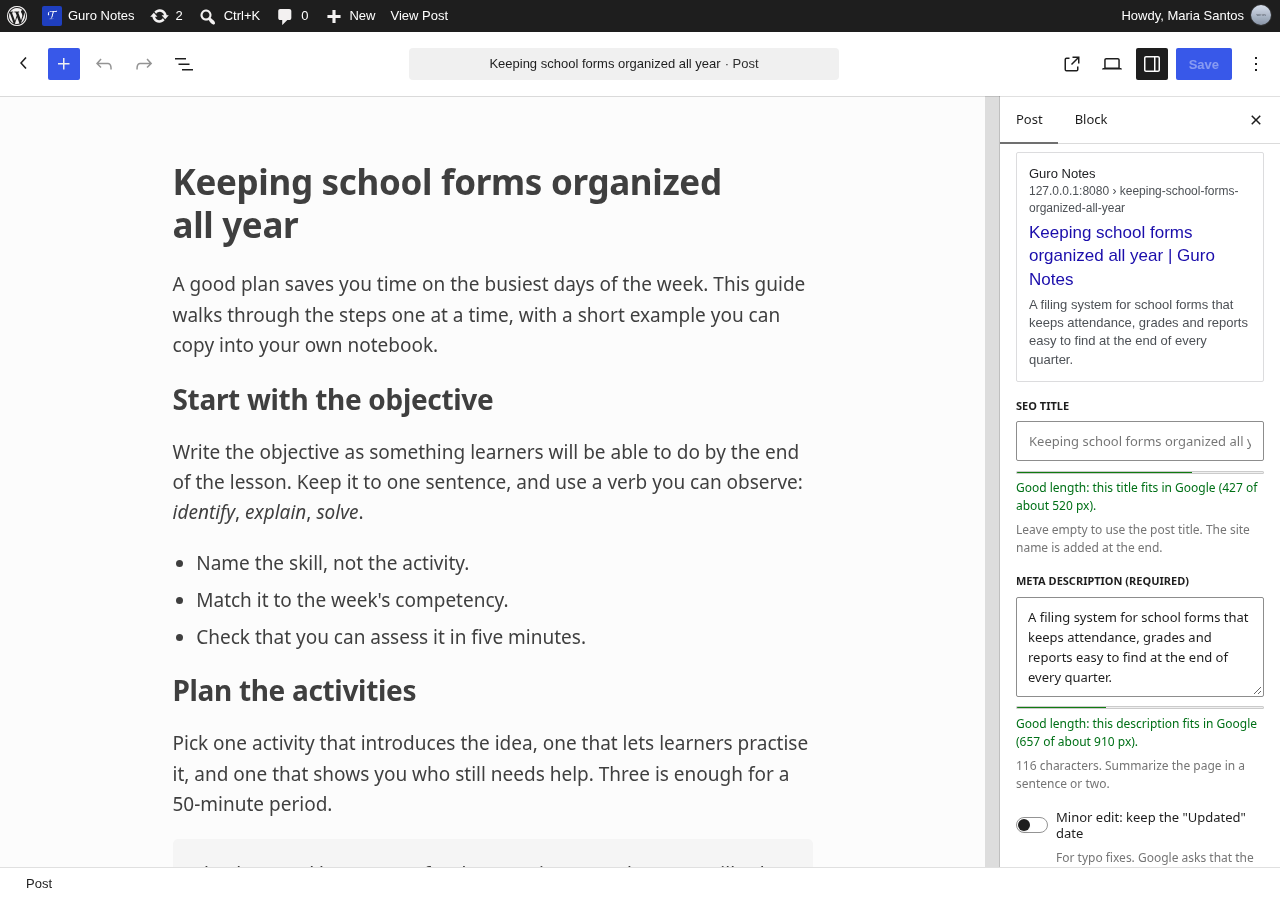
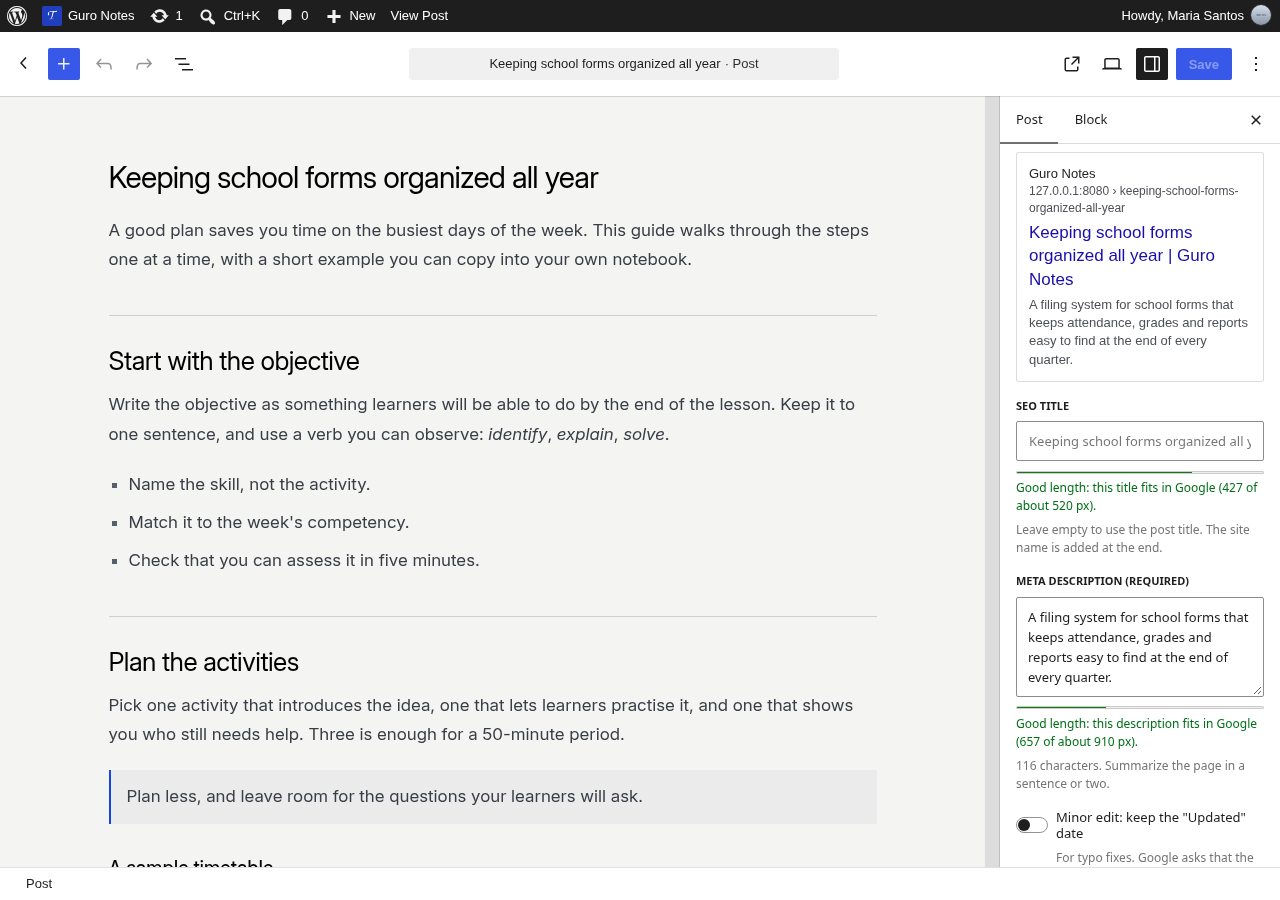
Tala Blog 2.0.0: NASH Reviewer's look
Version 2.0.0 with its changelog, upgrade notice and Inter's OFL credit,
a new description in style.css, readme.txt and README.md, and a new
screenshot (the home page, light, 1200x900). The readmes' plugin
screenshots are taken again in the new look (the editor and the phone
pages show Inter and the new colours).

What 2.0.0 changes: the "drafting paper" look (ink on warm paper, one
cobalt accent, hairlines, square cards), Inter self-hosted and preloaded,
a Light/Dark switch named "Dark theme" with aria-pressed (ruling R7, not
the spec's two labels), full-width bands on a 60rem rail with diamond
nodes, a cobalt footer with the menu as columns and the site title as an
outlined wordmark, ruled list rows without thumbnails, an article title
band with the reading time and "On this page", empty Call to action and
Footer note parts filled per site in the Site Editor, forms, PDF viewer
and print following the switch. The colour and typography presets are
gone; the upgrade notice says sites that picked one lose it.

The theme names no site or design source: comments that said "NASH" now
say "the design system" (ruling R12). The inlined CSS leaves out
theme.css's comments and indentation (68 KB -> 48 KB printed, 8 KB
gzipped); a PHPUnit test checks it, and fails without the change.

Lighthouse, mobile article, no ads (lighthouse 12.8.2 CLI):
- through a gzip proxy, as nginx serves it: Performance 96,
  Accessibility 100, Best Practices 100, SEO 100 (FCP 1.5 s, LCP 2.6 s,
[…]

Changed region(s): [[0.0625, 0.1867, 0.6875, 0.5911], [0.0938, 0.6222, 0.6562, 0.9022]]

diff --git a/tala-blog/assets/theme.css b/tala-blog/assets/theme.css
@@ -74,7 +74,7 @@
 	color-scheme: light dark;
 	scrollbar-gutter: stable; /* room for the scrollbar on short pages too, so pages don't jump sideways */
 
-	/* The page frame (NASH Reviewer's): one rail every band shares, its inner padding, the diamond
+	/* The page frame (the design system's): one rail every band shares, its inner padding, the diamond
 	   nodes, the graph paper's pitch and lines, and the header's 44px controls and their gap. */
 	--tala-rail: 60rem;
 	--tala-rail-pad: clamp(1rem, 0.25rem + 3vw, 2.5rem);
@@ -85,7 +85,7 @@
 	--tala-header-gap: 0.5rem;
 	--tala-ease-out: cubic-bezier(0.23, 1, 0.32, 1);
 
-	/* Errors in forms (Gravity Forms' "Required" marks and messages): NASH's destructive red, 5:1 on
+	/* Errors in forms (Gravity Forms' "Required" marks and messages): the design system's destructive red, 5:1 on
 	   the light surface and 6:1 on the dark one. Gravity Forms' own red (#c02b0a) is 2.8:1 on the
 	   dark surface. */
 	--tala-danger: #c53b2b;
@@ -248,7 +248,7 @@ a {
 	}
 }
 
-/* Buttons, as NASH's: the accent fill with a 2px lip of the deep accent and a faint cobalt shadow
+/* Buttons, as the design system's: the accent fill with a 2px lip of the deep accent and a faint cobalt shadow
    (theme.json gives the fill). Outline buttons, and the header's icon buttons, are a hairline box
    on the surface with a faint grey lip. The lip goes on hover; a press sinks the button by 1px. */
 :where(.wp-element-button, .wp-block-button__link) {
@@ -336,7 +336,7 @@ a {
 	scroll-margin-block-start: var(--wp--preset--spacing--40);
 }
 
-/* Form fields, as NASH's controls: the surface in a 1px box, 4px corners, the text's ink. The
+/* Form fields, as the design system's controls: the surface in a 1px box, 4px corners, the text's ink. The
    surface is barely lighter than the paper, so the edge is the field's outline: muted, which keeps
    at least 3:1 against the page and the field (WCAG 1.4.11; the border colour is for cards and
    buttons). Gravity Forms' fields look the same (assets/gravity-forms-*.css). */
@@ -390,8 +390,8 @@ footer.wp-block-template-part,
 	flex-grow: 1;
 }
 
-/* The page frame, as NASH Reviewer's: every section is a full-width band ruled underneath. Inside
-   it, a centred rail (60rem, narrower than NASH's 70rem so side-rail ads keep room beside it) with
+/* The page frame, as the design system's: every section is a full-width band ruled underneath. Inside
+   it, a centred rail (60rem, narrower than the design system's 70rem so side-rail ads keep room beside it) with
    hairline side rules and a 7px diamond node where they cross the band's top rule. Bands follow
    each other with no gap, so the rails run unbroken from the header to the footer. Wide windows
    get a fainter outer pair of rules. In the editor a rail Group has no nodes: the editor draws a
@@ -462,7 +462,7 @@ footer.wp-block-template-part,
 	background-size: var(--tala-grid-pitch) var(--tala-grid-pitch);
 }
 
-/* The text column, centred in the rail: NASH's measure-72, 72 of Inter's "ch" (0.628em, written in
+/* The text column, centred in the rail: the design system's measure-72, 72 of Inter's "ch" (0.628em, written in
    em so lines don't re-wrap when Inter replaces its fallback), about 768px of 17px text. theme.json's
    content size (48rem) gives the editor the same column. */
 .tala-measure {
@@ -505,7 +505,7 @@ footer.wp-block-template-part,
 	min-block-size: 24px;
 }
 
-/* Header menu: a Navigation block with the site's menu, or its pages until there is one, as NASH's
+/* Header menu: a Navigation block with the site's menu, or its pages until there is one, as the design system's
    ghost links (15px, medium weight, heading ink, 44px tall, a wash on hover). Below 52rem it folds
    behind the menu button (WordPress folds it below 600px; the header's row needs more room) and
    opens into the menu overlay (parts/navigation-overlay.html). */
@@ -612,7 +612,7 @@ footer.wp-block-template-part,
 	transition: none;
 }
 
-/* The menu overlay, as NASH's side sheet: it covers the window and dims the page; the sheet is the
+/* The menu overlay, as the design system's side sheet: it covers the window and dims the page; the sheet is the
    full width on phones and 24rem wide from 40rem, at the right edge, in the page's colours. */
 .tala-header .wp-block-navigation__responsive-container.is-menu-open {
 	background-color: rgb(0 0 0 / 50%);
@@ -648,7 +648,7 @@ footer.wp-block-template-part,
 }
 
 /* Its top bar is the header's row: the brand exactly over the header's, the close button (a ghost
-   icon button) at the end of the row, as on NASH's sheet. */
+   icon button) at the end of the row, as on the design system's sheet. */
 .tala-overlay .wp-block-navigation-overlay-close {
 	border: 1px solid transparent;
 	background-color: transparent;
@@ -729,7 +729,7 @@ html:not(.tala-js) body:not(.editor-styles-wrapper) .tala-theme-switch,
 	}
 }
 
-/* The footer slab, as NASH Reviewer's: full-bleed cobalt with white text and hairlines at white
+/* The footer slab, as the design system's: full-bleed cobalt with white text and hairlines at white
    24%, the rail running on through it. A grid of cells (the brand cell, then the menu's columns),
    the bottom bar, and the hatched band with the wordmark. Its own padding sets every space in it. */
 .tala-slab {
@@ -974,12 +974,12 @@ html:not(.tala-js) body:not(.editor-styles-wrapper) .tala-theme-switch,
 	content: "© ";
 }
 
-/* The wordmark: the site title in giant outlined capitals on NASH's -45deg hatching, sized from
+/* The wordmark: the site title in giant outlined capitals on the design system's -45deg hatching, sized from
    its length (--tala-chars, set by tala_blog_wordmark()) so it spans the band whatever the title;
-   the band clips the bottoms of the letters. Inter's display cut at every size (as NASH's SVG
+   the band clips the bottoms of the letters. Inter's display cut at every size (as the design system's SVG
    wordmark, drawn at 330px), so a title's width doesn't change with the window: its capitals
    average about 0.6em, and 1.6em per character spans 92-98% of the band for most titles; a short
-   one stops at a third of the band's width (NASH's 330 in 1000), so it isn't cut off. One of
+   one stops at a third of the band's width (the design system's 330 in 1000), so it isn't cut off. One of
    unusually wide letters overflows both ends equally. The fill paints over the stroke's inner
    half, which hides the variable font's overlapping contours. */
 .tala-wordmark-band {
@@ -1005,8 +1005,8 @@ html:not(.tala-js) body:not(.editor-styles-wrapper) .tala-theme-switch,
 	user-select: none;
 }
 
-/* An article's or page's title band (its header), as NASH's: the breadcrumbs, the first category as
-   eyebrow, the title in display type (NASH's measure-24 of display type), the excerpt as lead
+/* An article's or page's title band (its header), as the design system's: the breadcrumbs, the first category as
+   eyebrow, the title in display type (the design system's measure-24 of display type), the excerpt as lead
    (measure-60, in the text's ink), then the byline over the dates and reading time. The parts sit
    1.25rem apart (.tala-intro). */
 
@@ -1090,7 +1090,7 @@ html:not(.tala-js) body:not(.editor-styles-wrapper) .tala-theme-switch,
 	}
 }
 
-/* The text band: NASH's padding, then the text column, its parts 2.5rem apart (the text, its
+/* The text band: the design system's padding, then the text column, its parts 2.5rem apart (the text, its
    topics, "Read next", the author box, the comments). The column is a container, so the author box
    lays out by its own width. */
 .tala-band > .tala-rail--text {
@@ -1109,7 +1109,7 @@ html:not(.tala-js) body:not(.editor-styles-wrapper) .tala-theme-switch,
 	margin-block-start: 2.5rem;
 }
 
-/* "On this page": the article's sections, as NASH's contents on a phone, at every width: a box on
+/* "On this page": the article's sections, as the design system's contents on a phone, at every width: a box on
    the surface, closed to one line (list icon, "On this page", the number of sections, a chevron),
    that opens into the numbered sections, each with its subsections, below a hairline. */
 .tala-contents {
@@ -1222,7 +1222,7 @@ html:not(.tala-js) body:not(.editor-styles-wrapper) .tala-theme-switch,
 	}
 }
 
-/* The article's text, as NASH's: 17px ink on relaxed leading, 1.25em between blocks, regular-weight
+/* The article's text, as the design system's: 17px ink on relaxed leading, 1.25em between blocks, regular-weight
    headings (sections under a hairline rule), cobalt underlined links, square bullets, quotes on the
    wash with a 2px cobalt rule, tables in a bordered box of their own. Pages get the same. The rules
    for headings reach the text's own blocks and the Groups in it, not headings inside other blocks'
@@ -1513,7 +1513,7 @@ html:not(.tala-js) body:not(.editor-styles-wrapper) .tala-theme-switch,
 }
 
 /* Quotes, in articles and comments, look like the Quote block (theme.json): on the wash, square,
-   with a 2px cobalt rule at the start, as NASH's, the width of the text. A pull quote keeps its own
+   with a 2px cobalt rule at the start, as the design system's, the width of the text. A pull quote keeps its own
    look. */
 :where(.wp-block-post-content, .wp-block-comment-content) :where(blockquote:not(.wp-block-pullquote > blockquote)) {
 	margin-inline: 0;
@@ -1575,7 +1575,7 @@ html:not(.tala-js) body:not(.editor-styles-wrapper) .tala-theme-switch,
 	margin-inline: auto;
 }
 
-/* After the text, as NASH's: each part under a hairline rule, 1.5rem above its first line. */
+/* After the text, as the design system's: each part under a hairline rule, 1.5rem above its first line. */
 
 /* "Topics": the article's categories and tags as chips (tags marked "#", for the eye only). */
 .tala-terms,
@@ -1707,7 +1707,7 @@ html:not(.tala-js) body:not(.editor-styles-wrapper) .tala-theme-switch,
 	}
 }
 
-/* The author box, as NASH's "About the author": a square card on the surface, the round photo
+/* The author box, as the design system's "About the author": a square card on the surface, the round photo
    (80px, on a hairline ring) beside the name from 34rem of column, above it on a phone. */
 .tala-author {
 	display: flex;
@@ -1905,7 +1905,7 @@ html:not(.tala-js) body:not(.editor-styles-wrapper) .tala-theme-switch,
 	font-size: var(--wp--preset--font-size--small);
 }
 
-/* The 404 page: NASH's status panel on the graph paper, centred: a large italic "404" in display
+/* The 404 page: the design system's status panel on the graph paper, centred: a large italic "404" in display
    type, the heading, the explanation, a search field and the button home. */
 .tala-status {
 	display: flex;
@@ -1942,8 +1942,8 @@ html:not(.tala-js) body:not(.editor-styles-wrapper) .tala-theme-switch,
 }
 
 /* The closing call to action (the "Closing call to action" pattern, for the Call to action part): on
-   the graph-paper band, a square surface card with a hairline border and NASH's flat cobalt offset
-   shadow, the one raised element on the page. Eyebrow, display heading (NASH's measure-18 of display
+   the graph-paper band, a square surface card with a hairline border and the design system's flat cobalt offset
+   shadow, the one raised element on the page. Eyebrow, display heading (the design system's measure-18 of display
    type), lead (measure-44, in the text's ink), one button and a meta line, centred, 1.25rem apart. */
 .tala-cta {
 	display: flex;
@@ -1984,7 +1984,7 @@ html:not(.tala-js) body:not(.editor-styles-wrapper) .tala-theme-switch,
 	margin-block-start: 1.25rem;
 }
 
-/* Display type is narrower: NASH measures it in its own "ch" of 0.594em. */
+/* Display type is narrower: the design system measures it in its own "ch" of 0.594em. */
 .tala-intro > .tala-display {
 	max-inline-size: calc(20 * 0.594em);
 }
@@ -2097,7 +2097,7 @@ html:not(.tala-js) body:not(.editor-styles-wrapper) .tala-theme-switch,
 	}
 }
 
-/* Article lists, as NASH's: ruled rows without pictures, the rules running from side rule to side
+/* Article lists, as the design system's: ruled rows without pictures, the rules running from side rule to side
    rule (the rail adds no padding; each row pads itself). From 44rem of list the date and first
    category sit in a 9rem column beside the title and summary; narrower, above them. */
 

diff --git a/tala-blog/style.css b/tala-blog/style.css
@@ -2,8 +2,8 @@
 Theme Name: Tala Blog
 Author: Edventure
 Author URI: https://edventure.com.ph
-Description: A minimal, fast blog theme for long reads on phones: near-black text on a near-white page, with the same quiet look inverted in dark mode (it follows the reader's device). A header with the site logo and a menu that opens full screen on phones, system fonts only, labelled published and updated dates, and under every article a "Keep reading" section (articles from the same categories, then the older and newer articles as cards) and an author box with biography. Colour presets (Sepia, Blue, Green) and serif typography presets, all with system fonts. Pairs with the Tala SEO plugin for breadcrumbs and structured data.
-Version: 1.13.0
+Description: A fast blog theme for long reads on phones, in a "drafting paper" look: dark ink on warm paper, one cobalt accent, Inter (self-hosted), and every section a full-width band on a centred rail with hairline rules. A Light/Dark switch in the header (it follows the reader's device until they choose), a cobalt footer with columns from the site's menu and the site title as an outlined wordmark, articles listed as ruled rows, and an article page with a title band (dates and reading time), "On this page" contents, topic chips, "Read next" and an author box. Empty Call to action and Footer note parts to fill per site in the Site Editor. Pairs with the Tala SEO plugin for breadcrumbs and structured data.
+Version: 2.0.0
 Requires at least: 7.0
 Tested up to: 7.1
 Requires PHP: 8.5

diff --git a/tala-blog/functions.php b/tala-blog/functions.php
@@ -198,7 +198,7 @@ add_filter( 'render_block_core/table', 'tala_blog_table_region' );
 /**
  * A Table block scrolls sideways in its own box when it is wider than the text column (theme.css),
  * so the page never does. Keyboard users scroll it too: the box is a region they can focus, named
- * by the table's caption, or "Table", as NASH's tables are.
+ * by the table's caption, or "Table", as the design system's tables are.
  *
  * @param string $html Rendered Table.
  * @return string
@@ -646,14 +646,16 @@ add_filter( 'styles_inline_size_limit', static fn(): int => 60000 );
 add_action( 'wp_enqueue_scripts', 'tala_blog_styles', 20 );
 
 /**
- * Inlines the theme CSS after the global styles: about 38 KB, under 10 KB once the page is
- * compressed, cheaper than another request.
+ * Inlines the theme CSS after the global styles, cheaper than another request. The comments that
+ * explain it in assets/theme.css (a quarter of the file) and the indentation stay out of the page:
+ * about 48 KB is printed, under 10 KB once the page is compressed. The editor reads the file as it is.
  */
 function tala_blog_styles(): void {
-	$css = file_get_contents( get_theme_file_path( 'assets/theme.css' ) ); // phpcs:ignore WordPress.WP.AlternativeFunctions.file_get_contents_file_get_contents -- local file.
+	$css = (string) file_get_contents( get_theme_file_path( 'assets/theme.css' ) ); // phpcs:ignore WordPress.WP.AlternativeFunctions.file_get_contents_file_get_contents -- local file.
+	$css = (string) preg_replace( array( '#/\*.*?\*/#s', '/\n\s+/' ), array( '', "\n" ), $css );
 	wp_register_style( 'tala-blog', false, array(), wp_get_theme()->get( 'Version' ) );
 	wp_enqueue_style( 'tala-blog' );
-	wp_add_inline_style( 'tala-blog', (string) $css );
+	wp_add_inline_style( 'tala-blog', trim( $css ) );
 }
 
 add_action( 'wp_head', 'tala_blog_theme_switch_script', 0 );
@@ -1218,7 +1220,7 @@ function tala_blog_reserved_ids() {
 }
 
 /**
- * The table of contents, as NASH's: a disclosure that starts closed at every width, its summary
+ * The table of contents, as the design system's: a disclosure that starts closed at every width, its summary
  * "On this page · 4 sections" between a list icon and a chevron, which opens into a navigation
  * landmark named "On this page": the sections numbered 01, 02… (numbers the eye needs, hidden from
  * screen readers, so each link is named by its heading's words alone), each with its subsections.

diff --git a/tests/phpunit/tala-blog/test-theme.php b/tests/phpunit/tala-blog/test-theme.php
@@ -1700,6 +1700,31 @@ HTML;
 	}
 
 	/**
+	 * The theme's CSS is inlined into every page without the comments that explain it in
+	 * assets/theme.css, nor their indentation: the rules all arrive, the prose doesn't.
+	 */
+	public function test_inline_css_without_comments(): void {
+		$saved                = $GLOBALS['wp_styles'] ?? null;
+		$GLOBALS['wp_styles'] = new WP_Styles();
+		try {
+			tala_blog_styles();
+			$data = wp_styles()->get_data( 'tala-blog', 'after' );
+			$css  = implode( "\n", is_array( $data ) ? $data : array() );
+		} finally {
+			$GLOBALS['wp_styles'] = $saved;
+		}
+		$file = (string) file_get_contents( get_theme_file_path( 'assets/theme.css' ) ); // phpcs:ignore WordPress.WP.AlternativeFunctions.file_get_contents_file_get_contents -- local file.
+		$this->assertStringContainsString( '/*', $file, 'The file keeps its comments' );
+		$this->assertStringNotContainsString( '/*', $css );
+		$this->assertStringNotContainsString( '*/', $css );
+		$this->assertDoesNotMatchRegularExpression( '/\n[ \t]/', $css, 'No indentation' );
+		$this->assertLessThan( 0.8 * strlen( $file ), strlen( $css ) );
+		$this->assertStringContainsString( 'box-shadow: 6px 6px 0 color-mix(in srgb, var(--wp--preset--color--accent) 10%, transparent);', $css, 'Rules arrive as written' );
+		$rules = (string) preg_replace( '#/\*.*?\*/#s', '', $file );
+		$this->assertSame( substr_count( $rules, '{' ), substr_count( $css, '{' ), 'Every rule arrives' );
+	}
+
+	/**
 	 * The browser's theme colour and the dark-mode colours follow a chosen colour preset, also when
 	 * the person who chose it can't save unfiltered HTML: WordPress then keeps only the palette, and
 	 * the dark colours come from the preset's file. The theme ships no presets, but a child theme

diff --git a/README.md b/README.md
@@ -4,7 +4,7 @@ A minimal, fast blog setup for WordPress with the block editor (Gutenberg). No p
 
 | Folder | What it is |
 |---|---|
-| `tala-blog/` | Block theme. Minimalist: near-black text on a near-white page, the same inverted in automatic dark mode, a header with the site logo and a menu that opens full screen on phones, system fonts (no downloads), labelled Published/Updated dates, author box with bio under every article, breadcrumbs, "Filed under" categories and tags, article lists with thumbnails and numbered pages, dated comments, print styles. Semantic HTML: the article has its own header and footer, the links to the previous and next articles are a named navigation landmark, and each comment is an article. Three colour presets (Sepia, Blue, Green, each with its own dark mode) and two serif typography presets in the Site Editor, all with system fonts. Translation-ready and accessible (WCAG 2.2 AA checks pass in both colour schemes, with every colour preset). |
+| `tala-blog/` | Block theme in a "drafting paper" look: dark ink on warm paper, one cobalt accent, Inter (self-hosted, preloaded), every section a full-width band on a centred rail with hairline rules, and a Light/Dark switch in the header (it follows the device until the reader chooses). A header with the site logo, the menu (a side sheet on narrow screens) and search; a cobalt footer with the site's menu as columns, a Footer note part and the site title as an outlined wordmark; article lists as ruled rows without thumbnails; articles with a title band (breadcrumbs, dates, reading time), "On this page" contents, topic chips, "Read next" and an author box; an empty Call to action part filled per site in the Site Editor; dated comments; print styles. Semantic HTML with named landmarks; Gravity Forms and PDF Embedder follow the switch. Translation-ready and accessible (WCAG 2.2 AA checks pass in light and dark). |
 | `tala-seo/` | SEO plugin. Titles, meta descriptions, canonicals, robots rules, Open Graph, JSON-LD, sitemap and robots.txt tuning, redirects for moved pages and categories, and a publish check. |
 | `tala-ads/` | Ads plugin. AdSense Auto ads, Google Tag Manager and Google's consent and ad blocking recovery messages (with Google's error protection code), each loaded once and set up with IDs; Google search in place of WordPress's search; and an optional Innity box after articles with its height reserved. |
 | `tala-guard/` | Comment spam plugin. Cloudflare Turnstile in the comment form, confirmed with Cloudflare's Siteverify on the server before WordPress saves a comment. |
@@ -127,8 +127,8 @@ dev/serve.sh                  # http://127.0.0.1:8080 (admin login: ~/.local/sta
 | `npm run lint:theme` | `bin/validate-theme.mjs`: `theme.json` and `block.json` against WordPress's schemas for the "Requires at least" version, pattern headers, block markup in templates, parts and patterns, and no hard-coded text in templates and parts |
 | `npm run lint:readme` | `bin/validate-readme.mjs`: `tala-seo/readme.txt`, `tala-ads/readme.txt` and `tala-guard/readme.txt` by the rules of [WordPress.org's readme validator](https://wordpress.org/plugins/developers/readme-validator/) (its errors, warnings and notes, ported from the plugin directory's parser), plus a match with the plugin header, "Tested up to" the current WordPress, upgrade notices within 300 characters, a changelog entry for the release, and an image in `.wordpress-org/` (`.wordpress-org/<plugin>/` for Tala Ads and Tala Guard) for each screenshot caption. Contributors, tag usage and the WordPress release are looked up on WordPress.org. The one note left on purpose: no donate link, as the plugins take no donations. |
 | `npm run lint` | the four above, plus `composer lint` |
-| `composer test` | PHPUnit integration tests (`tests/phpunit/`) on WordPress's own test framework: Tala SEO's head tags, structured data (videos, events, courses, FAQ and how-to included), sitemap, redirects, publish check, admin forms, import and share images, Tala Ads' settings and scripts (each loaded once, none on error pages, the error protection code's checks, Google search's redirect and results page, the Innity box once with its height reserved), and Tala Blog's block filters, patterns, template parts and style variations (colour contrast in light and dark mode, colour and typography presets as the Site Editor lists them) |
-| `npm run test:e2e` | browser tests (`tests/e2e/`, Playwright) on the local site: every kind of page, the phone menu frame by frame, layout shifts, the logo, axe in light and dark mode on phone and desktop and with each colour preset, the article's header, footer and navigation and the comments as articles, the block editor's validation of the theme, classic content (aligned images, captions, galleries, embeds, tables, quotes, long words, password forms), and Tala SEO's FAQ, How-to, Event and Course blocks and video dates in the editor and on the page |
+| `composer test` | PHPUnit integration tests (`tests/phpunit/`) on WordPress's own test framework: Tala SEO's head tags, structured data (videos, events, courses, FAQ and how-to included), sitemap, redirects, publish check, admin forms, import and share images, Tala Ads' settings and scripts (each loaded once, none on error pages, the error protection code's checks, Google search's redirect and results page, the Innity box once with its height reserved), and Tala Blog's block filters, patterns, template parts, footer columns and wordmark, reading time, Inter's font faces and preloads, and colours (contrast in light and dark mode) |
+| `npm run test:e2e` | browser tests (`tests/e2e/`, Playwright) on the local site: every kind of page, the phone menu frame by frame, layout shifts, the logo, axe in light and dark mode on phone and desktop, the Light/Dark switch (applied before paint, kept across pages, hidden without JavaScript), the article's header, footer and navigation and the comments as articles, the block editor's validation of the theme, classic content (aligned images, captions, galleries, embeds, tables, quotes, long words, password forms), and Tala SEO's FAQ, How-to, Event and Course blocks and video dates in the editor and on the page |
 
 A pre-commit hook (husky and lint-staged, set up by `npm ci`) runs the linters on the staged files of each commit.
 
@@ -152,15 +152,15 @@ The one deliberate exception is Plugin Check's `plugin_updater_detected`. It fla
 
 `AGENTS.md` describes the workflow: WordPress agent skills first, then the checks, then tests on the local site. The skills come from [WordPress/agent-skills](https://github.com/WordPress/agent-skills) (GPL-2.0-or-later). They are installed in `.agents/skills/`, recorded in `skills-lock.json`, and Claude Code reads them through `.claude/skills/`. Update them with `npx skills update`.
 
-### Test results (October 2026: WordPress 7.1, PHP 8.5.12)
+### Test results (November 2026: WordPress 7.1, PHP 8.5.12)
 
-- `composer test`: 73 PHPUnit tests pass. `npm run test:e2e`: 79 browser tests pass, axe included.
+- `composer test`: 231 PHPUnit tests pass (one, the network-only admin test, runs in the multisite pass). `npm run test:e2e`: 157 browser tests pass, axe included.
 - Every page type renders without PHP notices, and every theme template passes the block editor's validator.
 - The publish check holds in the editor, over REST, in Quick Edit and WP-CLI saves, and for scheduling.
 - The WP-CLI commands `audit` and `import` (including `--dry-run`) work; Yoast titles built from `%%variables%%` are skipped.
-- Lighthouse on a mobile article page: Accessibility 100, Best Practices 100, SEO 100.
+- Lighthouse on a mobile article page (Tala Blog 2.0.0, no ads, gzip as on the servers): Performance 96, Accessibility 100, Best Practices 100, SEO 100.
 - `composer check` passes: WPCS without findings, PHPStan level 8 without errors, Plugin Check 2.1 without findings.
 
 **Not used on purpose:**
 - a build step: the editor scripts are plain JavaScript using the `wp.*` globals (Node is only for the linters)
-- web fonts and jQuery
+- web fonts other than Inter (self-hosted in the theme), and jQuery
